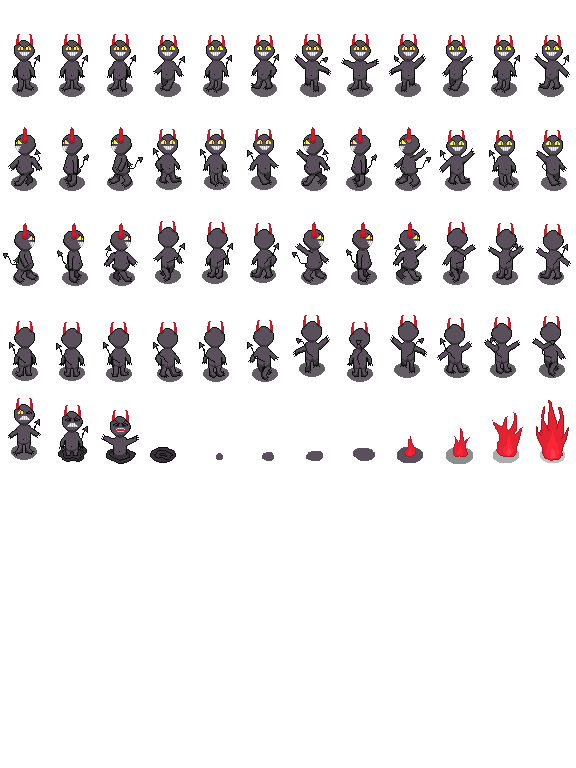
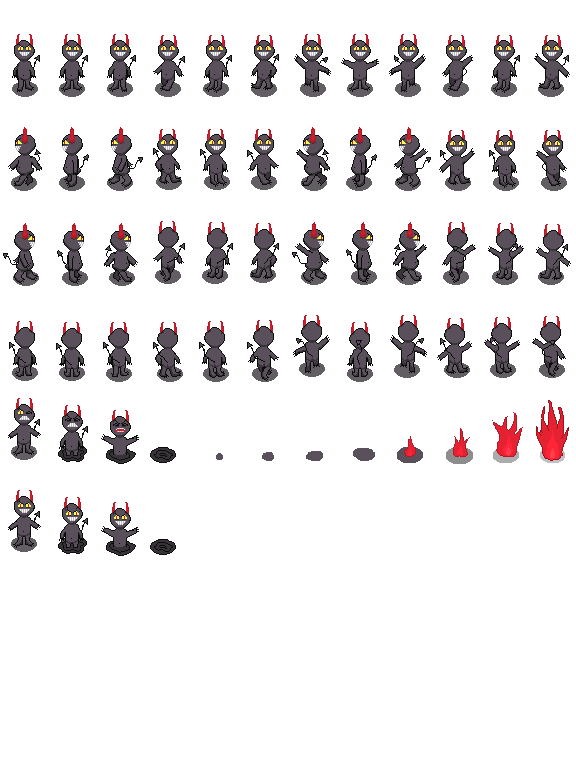
ahora los enemigos aparecen con una pequeña animación

Changed region(s): [[0.1875, 0.6562, 0.3125, 0.7188], [0.0, 0.625, 0.0625, 0.7188], [0.0938, 0.6562, 0.1562, 0.7188]]

diff --git a/scripts/Circulo.cs b/scripts/Circulo.cs
@@ -4,6 +4,7 @@ using System;
 public partial class Circulo : CharacterBody2D
 {
 	private bool isDying = false;
+	private bool isAppearing = false;
 	
 	[Export] public bool esJefe = false;
 
@@ -43,6 +44,9 @@ public partial class Circulo : CharacterBody2D
 	}
 
 	public void OnHitByBullet(Node bullet, Player player){
+		if(isAppearing){
+			return;
+		}
 		if (bullet is Bullet bullet1)
 		{
 			if (bullet1.color != this.color){
@@ -75,7 +79,7 @@ public partial class Circulo : CharacterBody2D
 
 			if (body is Player jugador){
 				GD.Print("Jugador tocado por enemigo "+colorEscrito);
-				if(isDying==true){
+				if(isDying==true || isAppearing ==true){
 					return;
 				}
 				
@@ -89,7 +93,7 @@ public partial class Circulo : CharacterBody2D
 	
 	public override void _PhysicsProcess(double delta){
 		// Si está muriendo, no hacer nada más
-		if (isDying)
+		if (isDying || isAppearing)
 			return;
 
 		// Vector dirección hacia el jugador
@@ -197,4 +201,24 @@ public partial class Circulo : CharacterBody2D
 		
 	}
 	*/
+	
+	public void Aparecer()
+{
+	isAppearing = true;
+	sprite.Play("demonio_" + colorEscrito + "_aparecer");
+
+	// Cuando termine la animación, empezar a comportarse normal
+	sprite.AnimationFinished += OnAparecerFinished;
+}
+
+private void OnAparecerFinished()
+{
+	// Si acaba justo la animación de aparecer
+	if (sprite.Animation == "demonio_" + colorEscrito + "_aparecer")
+	{
+		isAppearing = false;
+		sprite.AnimationFinished -= OnAparecerFinished; // quitar handler para que no se dispare en otras animaciones
+	}
+}
+
 }

diff --git a/scripts/MundoBase.cs b/scripts/MundoBase.cs
@@ -38,18 +38,13 @@ public abstract partial class MundoBase : Node2D
 		
 	}
 	
-	protected void spawnearEnemigo(){
-		// Instanciar una escena "Circulo.tscn"
-		Circulo miCirculo = (Circulo)enemigos[nEnemigo];
-		
+	protected void spawnearEnemigo(Circulo miCirculo){
 		miCirculo.player=player;
 		
 		string[] colores = { "red", "orange", "yellow", "green", "blue", "purple", "negro" };
 		
 		miCirculo.colorEscrito=colores[miCirculo.color];
-		if(miCirculo.esJefe){
-			GD.Print("Asignado el color del jefe a "+miCirculo.colorEscrito);
-		}
+		miCirculo.Aparecer();
 
 	}
 }

diff --git a/scripts/Mundo.cs b/scripts/Mundo.cs
@@ -21,12 +21,14 @@ public partial class Mundo : MundoBase
 		foreach (Node child in Enemigos.GetChildren()){
 			if (child is CharacterBody2D enemigo){
 				enemigos.Add(enemigo);
+				
 
 				if (nEnemigo % 2 == 0 && enemigo is Circulo circulo){
 					circulo.color = 2;
+					
 				}
 
-				spawnearEnemigo();
+				spawnearEnemigo((Circulo)enemigo);
 				nEnemigo++;
 			}
 		}

diff --git a/scripts/Mundo5.cs b/scripts/Mundo5.cs
@@ -54,9 +54,10 @@ public partial class Mundo5 : MundoBase
 						circulo.color=6;
 						circulo.VELOCIDAD/=3.3f;
 					}
+					spawnearEnemigo(circulo);
 				}
 
-				spawnearEnemigo();
+				
 				nEnemigo++;
 			}
 		}

diff --git a/scripts/Mundo2.cs b/scripts/Mundo2.cs
@@ -35,9 +35,10 @@ public partial class Mundo2 : MundoBase
 					}else if(nEnemigo%3==2){
 						circulo.color=0;
 					}
+					spawnearEnemigo(circulo);
 				}
 
-				spawnearEnemigo();
+				
 				nEnemigo++;
 			}
 		}

diff --git a/scripts/Mundo3.cs b/scripts/Mundo3.cs
@@ -36,9 +36,10 @@ public partial class Mundo3 : MundoBase
 					}else if(nEnemigo%4==3){
 						circulo.color=3;
 					}
+					spawnearEnemigo(circulo);
 				}
 
-				spawnearEnemigo();
+				
 				nEnemigo++;
 			}
 		}

diff --git a/scripts/Mundo4.cs b/scripts/Mundo4.cs
@@ -40,9 +40,9 @@ public partial class Mundo4 : MundoBase
 					}else if(nEnemigo%6==5){
 						circulo.color=5;
 					}
+					spawnearEnemigo(circulo);
 				}
 
-				spawnearEnemigo();
 				nEnemigo++;
 			}
 		}
